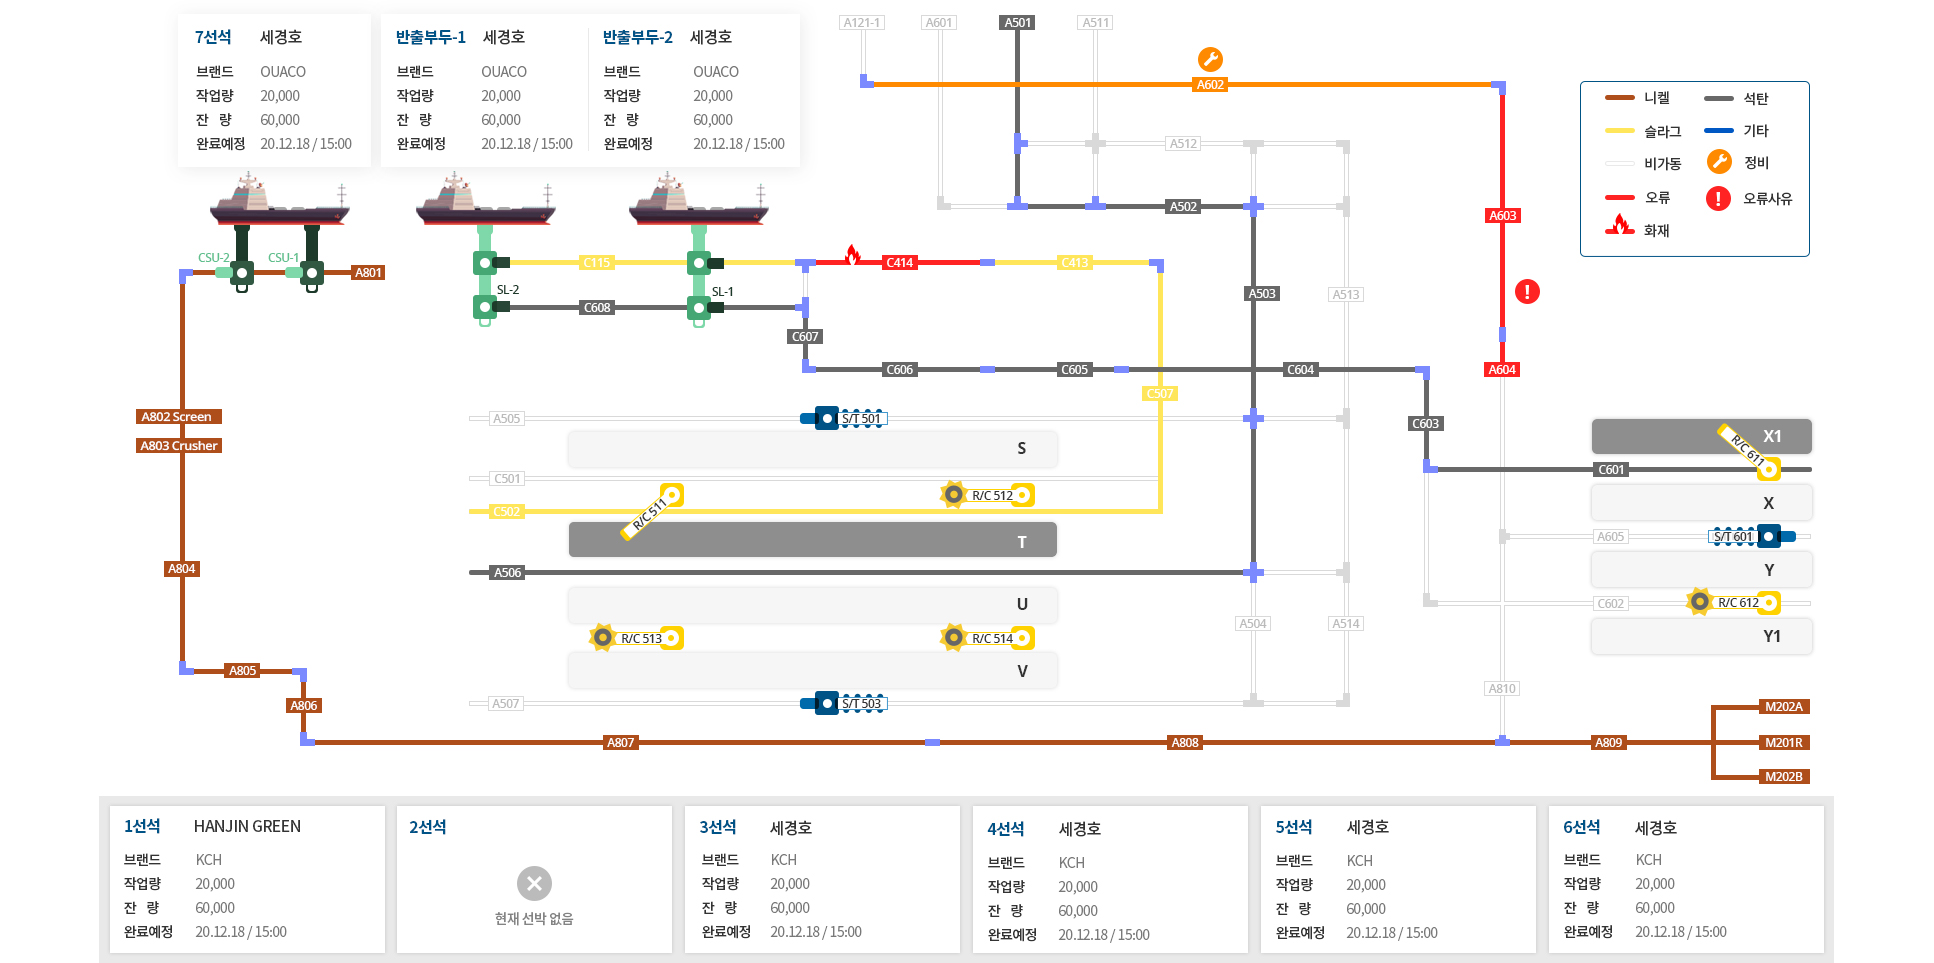
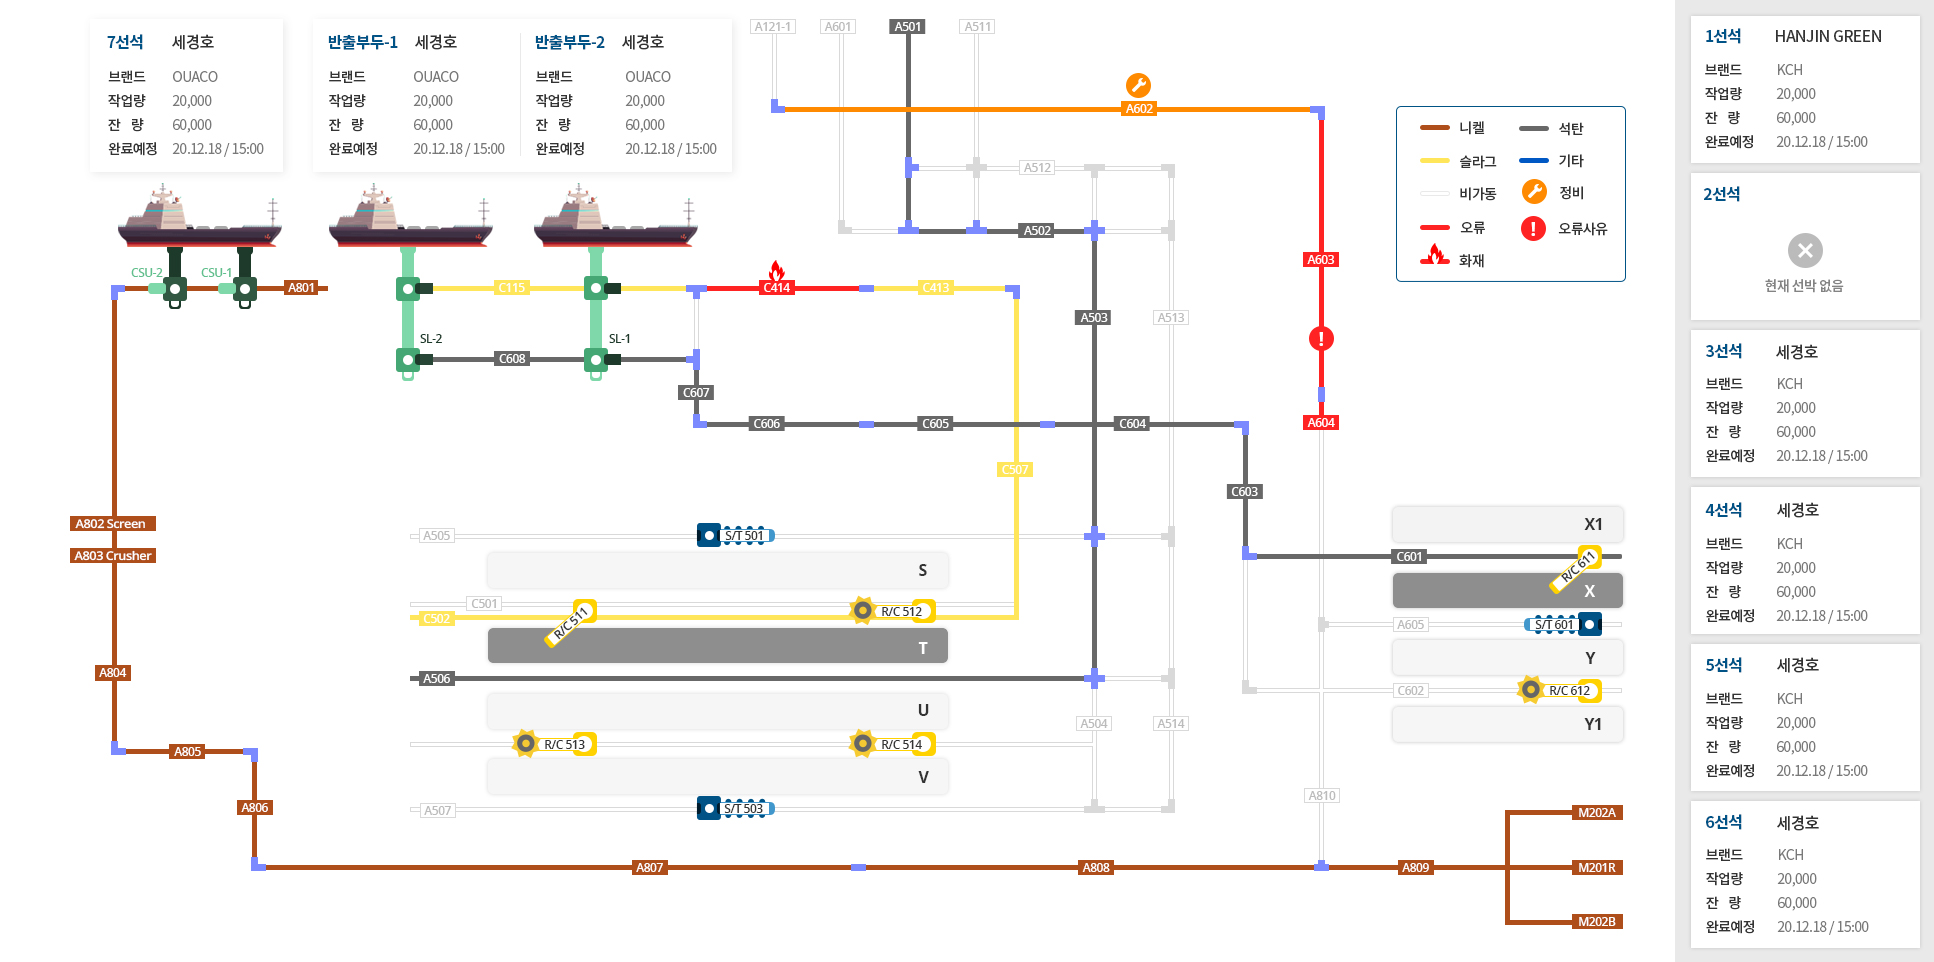
포스코 210105 수정

diff --git a/view2_1.html b/view2_1.html
@@ -1,30 +1,30 @@
 <html>
-	<title>포스코터미날 모니터링 페이지_201231</title>
+	<title>포스코터미날 모니터링 페이지_210105</title>
 	<body>
 		<style>
 			body{margin:0; padding:0;}
-			.main_bg{background:url('img/posco_1.jpg')no-repeat 100% center; height:1080px; width:1920px; margin:0 auto; position:relative;}
+			.main_bg{background:url('img/posco_2_1.jpg')no-repeat 100% center; height:1080px; width:1920px; margin:0 auto; position:relative;}
 			.cogwheel{position:relative; width:100%; height:100%;}
 			.cogwheel p{position:absolute;}
-			.cogwheel .reclaimer_left1{left:604px; bottom:451px;}
-			.cogwheel .reclaimer_left2{right:188px; bottom:489px;}
-			.cogwheel .stacker1{left:779px; bottom:417px;}
+			.cogwheel .reclaimer_left1{left:518px; bottom:346px;}
+			.cogwheel .reclaimer_left2{right:367px; bottom:400px;}
+			.cogwheel .stacker1{left:660px; bottom:310px;}
+			.cogwheel .nickel{left:56px; bottom:58px;}
+			.cogwheel .slag{left:400px; top:290px;}
 			.view_link{position:absolute; right:580px; z-index:333; top:20px;}
 			.view_link a{text-decoration:blink; color:#333; font-weight:bold; padding:5px 10px; border-radius:50px;}
 			.view_link a.on{color:#fff; background:#005386;}
 		</style>
 		<div class="main_bg">
 			<div class="view_link">
-				<a class="on" href="#">View1</a>
-				<a href="view2.html">View2</a>
-				<a href="view3.html">View3</a>
-				<a href="view4.html">View4</a>
-				<a href="view5.html">View5</a>
+				<a href="view1_1.html">View1-1</a>
+				<a class="on" href="#">View2-1</a>
 			</div>
 			<div class="cogwheel">
 				<p class="reclaimer_left1"><img src="img/reclaimer_left.gif"/></p>
 				<p class="reclaimer_left2"><img src="img/reclaimer_left.gif"/></p>
 				<p class="stacker1"><img src="img/stacker_502.gif"/></p>
+				<p class="nickel"><img src="img/nickel2.gif"/></p>
 			</div>
 		</div>
 	</body>

diff --git a/view1_1.html b/view1_1.html
@@ -3,28 +3,28 @@
 	<body>
 		<style>
 			body{margin:0; padding:0;}
-			.main_bg{background:url('img/posco_1.jpg')no-repeat 100% center; height:1080px; width:1920px; margin:0 auto; position:relative;}
+			.main_bg{background:url('img/posco_1_1.jpg')no-repeat 100% center; height:1080px; width:1920px; margin:0 auto; position:relative;}
 			.cogwheel{position:relative; width:100%; height:100%;}
 			.cogwheel p{position:absolute;}
 			.cogwheel .reclaimer_left1{left:604px; bottom:451px;}
 			.cogwheel .reclaimer_left2{right:188px; bottom:489px;}
 			.cogwheel .stacker1{left:779px; bottom:417px;}
+			.cogwheel .nickel{left:122px; bottom:205px;}
 			.view_link{position:absolute; right:580px; z-index:333; top:20px;}
 			.view_link a{text-decoration:blink; color:#333; font-weight:bold; padding:5px 10px; border-radius:50px;}
 			.view_link a.on{color:#fff; background:#005386;}
+
 		</style>
 		<div class="main_bg">
 			<div class="view_link">
-				<a class="on" href="#">View1</a>
-				<a href="view2.html">View2</a>
-				<a href="view3.html">View3</a>
-				<a href="view4.html">View4</a>
-				<a href="view5.html">View5</a>
+				<a class="on" href="#">View1-1</a>
+				<a href="view2_1.html">View2-1</a>
 			</div>
 			<div class="cogwheel">
 				<p class="reclaimer_left1"><img src="img/reclaimer_left.gif"/></p>
 				<p class="reclaimer_left2"><img src="img/reclaimer_left.gif"/></p>
 				<p class="stacker1"><img src="img/stacker_502.gif"/></p>
+				<p class="nickel"><img src="img/nickel1.gif"/></p>
 			</div>
 		</div>
 	</body>

diff --git a/view2.html b/view2.html
@@ -3,11 +3,11 @@
 	<body>
 		<style>
 			body{margin:0; padding:0;}
-			.main_bg{background:url('img/posco_1.jpg')no-repeat 100% center; height:1080px; width:1920px; margin:0 auto; position:relative;}
+			.main_bg{background:url('img/posco_2.jpg')no-repeat 100% center; height:1080px; width:1920px; margin:0 auto; position:relative;}
 			.cogwheel{position:relative; width:100%; height:100%;}
 			.cogwheel p{position:absolute;}
-			.cogwheel .reclaimer_left1{left:508px; bottom:348px;}
-			.cogwheel .reclaimer_left2{right:378px; bottom:476px;}
+			.cogwheel .reclaimer_left1{left:518px; bottom:346px;}
+			.cogwheel .reclaimer_left2{right:367px; bottom:400px;}
 			.cogwheel .stacker1{left:660px; bottom:310px;}
 			.view_link{position:absolute; right:580px; z-index:333; top:20px;}
 			.view_link a{text-decoration:blink; color:#333; font-weight:bold; padding:5px 10px; border-radius:50px;}
